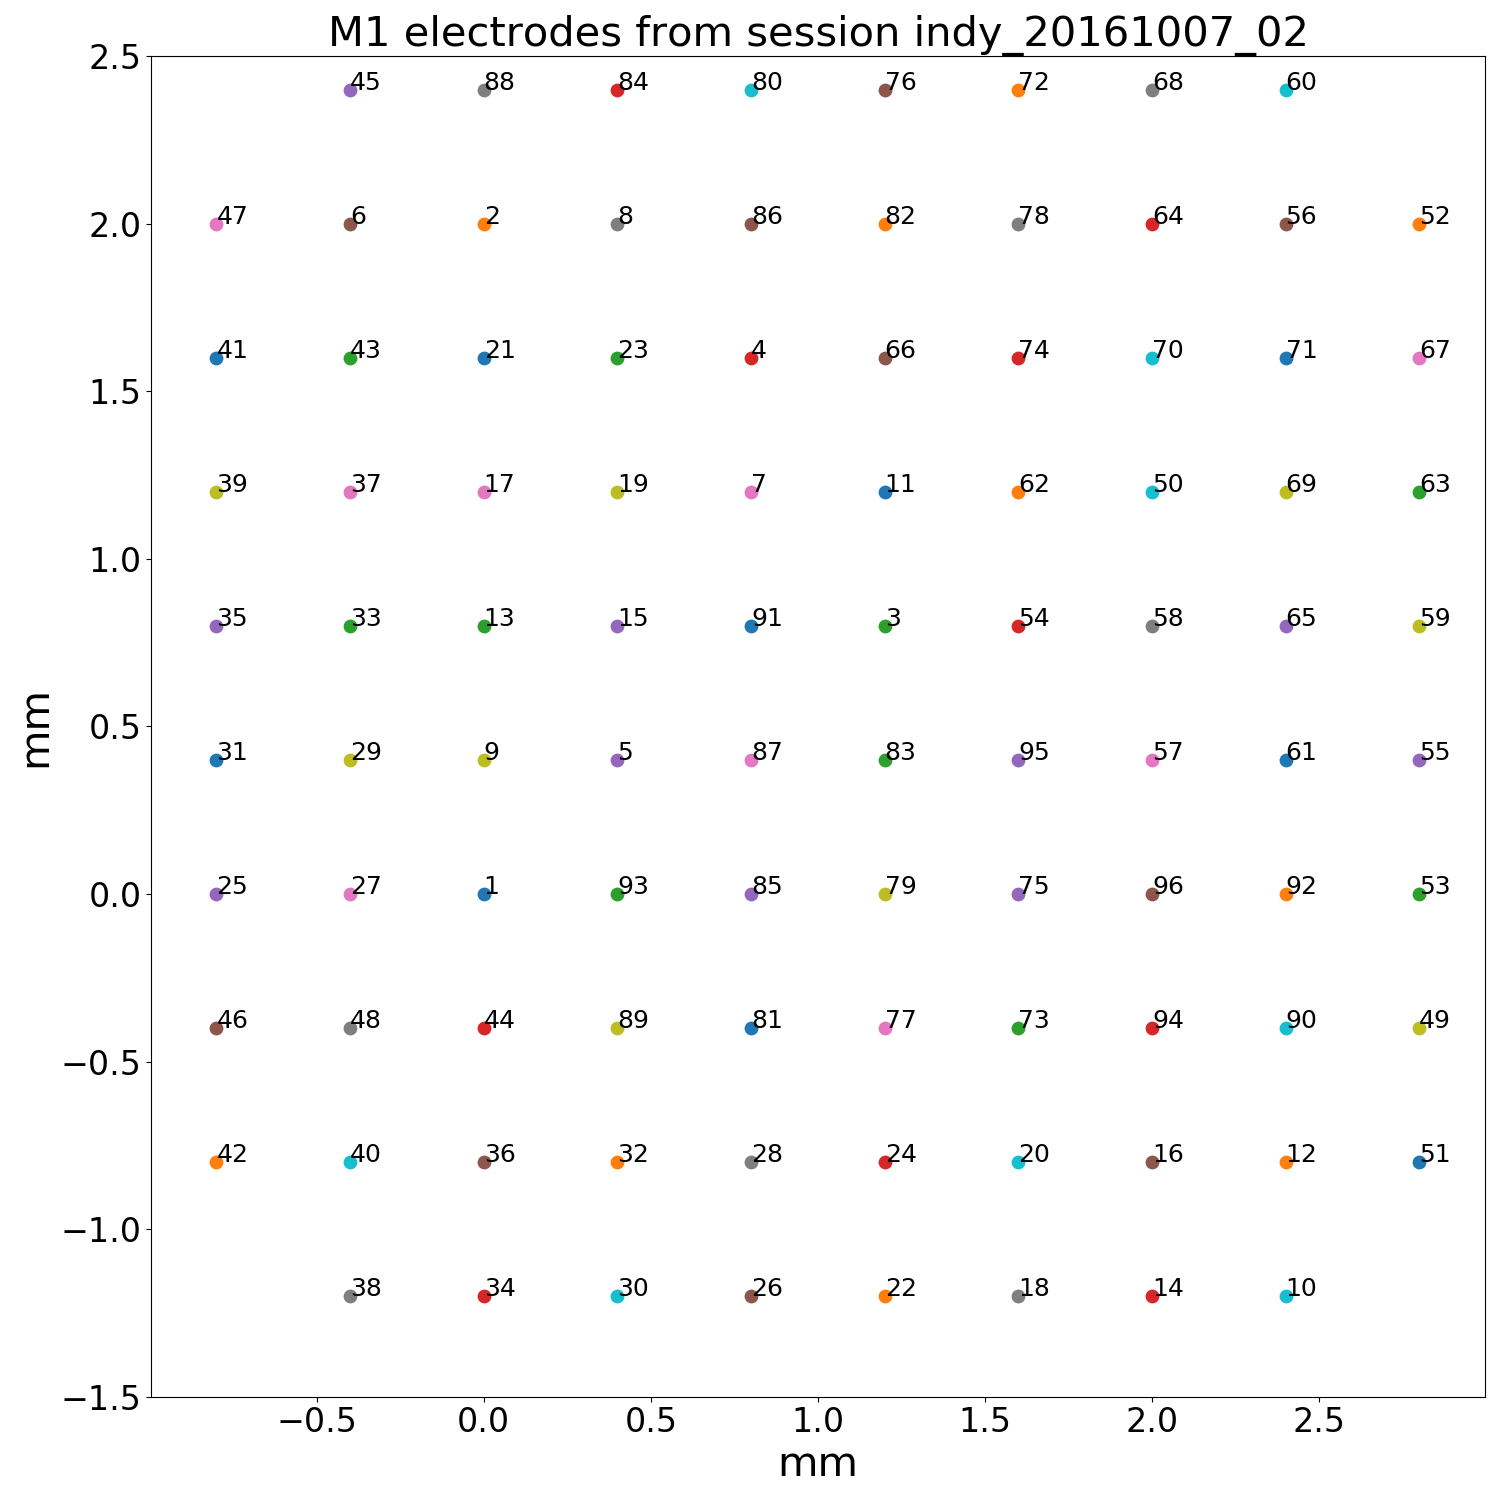
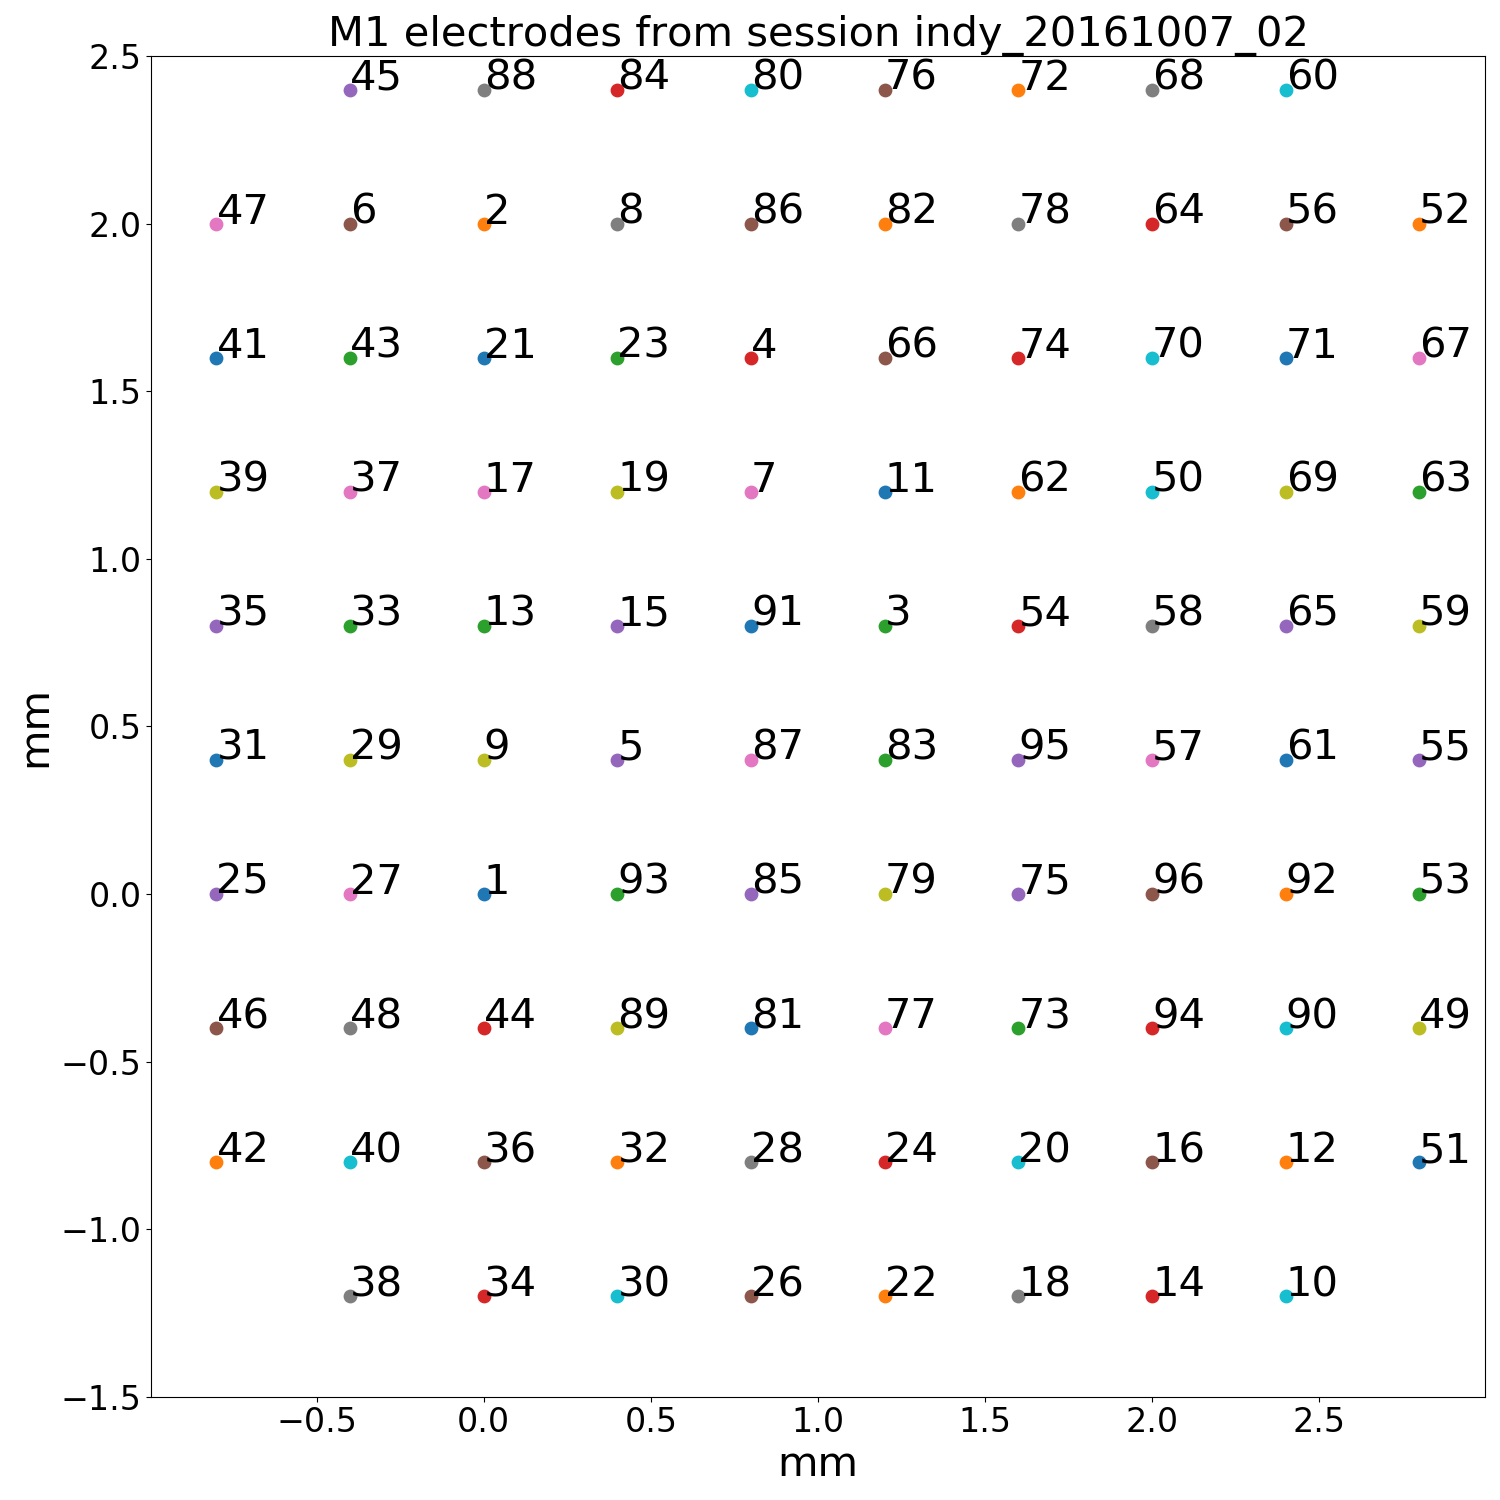
thesis

diff --git a/Thesis_Wu/Introduction.tex b/Thesis_Wu/Introduction.tex
@@ -97,9 +97,25 @@ Table \ref{tab:LFP_research} lists several researches regarding the LFPs, and th
 \section{Recurrent Neural Networks}
 \label{sec:rnn}
 The first idea of recurrent neural networks (RNN), which is called the Hopfield networks, was introduced in 1980s \citep{hopfield1982neural}, 
-and the following different versions of RNN have been developed afterwards \citep{elman1990finding, jordan1997serial}. 
+and the following different versions of RNN have been developed afterwards \citep{elman1990finding, jordan1997serial}, as showed in Figure~\ref{fig:elman_and_jordan}. 
 But the these RNN models face the same gradient vanishing problem, and the two effective approaches to solve this problem is either clip and scale the gradient if the norm is too large, 
 or create a better RNN model \citep{alom2018history}. 
+
+ % https://developer.ibm.com/articles/cc-cognitive-recurrent-neural-networks/
+\begin{figure}[H]
+    \begin{center}
+        \begin{subfigure}{0.4\textwidth}
+            \includegraphics[width=1\textwidth]{elman_network.png}
+            \caption{Elman network}
+        \end{subfigure}
+        \begin{subfigure}{0.4\textwidth}
+            \includegraphics[width=1\textwidth]{jordan_network.png}
+            \caption{Jordan network}
+        \end{subfigure}
+        \caption{}
+        \label{fig:elman_and_jordan}
+    \end{center}
+\end{figure}
 
 Therefore, \cite{hochreiter1997long} created a well-known model named Long Short-Term Memory (LSTM), solved the gradient vanishing problem of the original RNNs. LSTM quipped with three gates to learn how to forget or keep the memory from previous states. 
 Followed by the work of \cite{chung2014empirical}, a new model named Gated Recurrent Unit (GRU) which is similar to LSTM, was introduced. 
@@ -110,9 +126,12 @@ These preceding works manifest the uprising potentials of RNNs in computational 
 
 \section{Attention Mechanism}
 \label{sec:atten}
-Ever since \cite{sutskever2014sequence} implemented the encoder-decoder machanism to machine translation realm, 
-this structure has gained enormous popularity.
-Encoder-decoder RNN illustrated in Figure~\ref{fig:rnn_encoder_decoder},
+\cite{sutskever2014sequence} is the first research which implemented the encoder-decoder machanism (or called sequence to sequence, seq2seq) to machine translation realm.
+This structure has gained popularity also in sentiment analysis ever since.
+The structure of encoder-decoder RNN illustrated in Figure~\ref{fig:rnn_encoder_decoder}, 
+where the encoder turns a source sequence into a contex vector, then the decoder will use contex vector as the first hidden state to start translation.
+In the traning phase, decoder will be provided the actual target sequence wheras in testing phase, 
+the output from previous timestep will be the input of current timestep.
 
 \begin{figure}[H]
     \begin{center}
@@ -133,17 +152,12 @@ such that model is capable of focusing on the information relevant part of the i
 and leave a major positive impact on the ability of the neural machine translation system. 
 Furthermore, by pointing out the parts where the model cosider informative allows humans to have more insights into the decision factors inside deep learning, since deep learning methods have been criticized as black box oracles for a long time \citep{brown2018recurrent, hudson2018compositional}. 
 
-Apart form alignment model, \textit{self-attention} works quiet differently.
+Apart form alignment model, \textit{self-attention} of \textit{intra-attention} works quiet differently.
 The alighment model calculate the relationship between source and target sequences, 
 while self-attention only consider relationship beteen the elements from the same input sequence.
+It was \cite{cheng2016long} which first proposed the \textit{intra-attention} mechanism, and followed by the work of \cite{parikh2016decomposable,paulus2017deep}.
+Then \cite{vaswani2017attention} adapted similar idea but discarded the RNN architecture, making its \textit{Transformer} model has the advantage of parallelization.
 
-Similar attention techniques can be seen in sentiment classification research \citep{wang2016attention}, 
-where they appended the attention mechanism right after the LSTM outputs and named it attention-based LSTM.
-They also visualized the aspect in each sentence, e.g., the term "service" or "food" by showing the weights in attention vectors.
-They can tell the important words from the whole sentence.
-In EEG signal processing, \cite{zhang2019convolutional} used both CNN and RNN to extract the spatio and temporal dynamics.
-The self-attention module was placed in the last layer, after the raw signal was first processed by CNN and then RNN.
-The proposed method, convolutional recurrent attention model outperformed other state-of-the-art methods in EEG classification tasks.
 
 \begin{longtable}{cccc}
     \caption{Development of sequence attention}\\
@@ -152,15 +166,25 @@ The proposed method, convolutional recurrent attention model outperformed other 
     \multicolumn{1}{c}{}                                    & \multicolumn{1}{c}{}                                              & \multicolumn{1}{c}{  \multirow{1}{*}{\textbf{Model}}}      & \multicolumn{1}{c}{}                                       \\
     \hline
     \endhead
-    \cite{bahdanau2014neural} & \makecell{Alignment\\Model} & \makecell{Encoder-decoder\\(Seq2Seq)} & Machine Translation \\ \\
+    \cite{bahdanau2014neural} & \makecell{Alignment\\Model} & \makecell{Encoder-decoder\\(Seq2Seq)} & Machine translation \\ \\
     \cite{xu2015show} & \makecell{Soft/Hard\\Attention} & RNN & Image Caption \\ \\
-    \cite{luong2015effective} & \makecell{Global/Local\\ Attention} &  \makecell{Encoder-decoder\\(Seq2Seq)} & Machine Translation \\ \\
-    \cite{cheng2016long} & Intra-attention & \makecell{Encoder-decoder\\(Seq2Seq)} & Setiment Analysis \\ \\
+    \cite{luong2015effective} & \makecell{Global/Local\\ Attention} &  \makecell{Encoder-decoder\\(Seq2Seq)} & Machine translation \\ \\
+    \cite{cheng2016long} & Intra-attention & \makecell{Encoder-decoder\\(Seq2Seq)} & Setiment analysis \\ \\
+    \cite{parikh2016decomposable} & \makecell{Intra-sentence\\attention} & \makecell{Encoder-decoder\\(Seq2Seq)} & Setiment analysis \\ \\
+    \cite{paulus2017deep} & Intra-attention & \makecell{Encoder-decoder\\(Seq2Seq)} & Text summarization \\ \\
     \cite{vaswani2017attention} & \makecell{Self-attention,\\Parallelization,\\remove RNN} & \makecell{Encoder-decoder\\(The Transformer)} & Machine Translation \\ \\
-    \cite{lin2017structured} & \makecell{Self-attention} & RNN & Setiment Analysis \\ \\
+    \cite{lin2017structured} & \makecell{Self-attention} & RNN & Setiment analysis \\ \\
     \hline
     \label{tab:atten_dev}
 \end{longtable}
+
+Similar attention techniques can be seen in sentiment classification research \citep{wang2016attention}, 
+where they appended the attention mechanism right after the LSTM outputs and named it attention-based LSTM.
+They also visualized the aspect in each sentence, e.g., the term "service" or "food" by showing the weights in attention vectors.
+They can tell the important words from the whole sentence.
+In EEG signal processing, \cite{zhang2019convolutional} used both CNN and RNN to extract the spatio and temporal dynamics.
+The self-attention module was placed in the last layer, after the raw signal was first processed by CNN and then RNN.
+The proposed method, convolutional recurrent attention model outperformed other state-of-the-art methods in EEG classification tasks.
 
 
 \section{Normalization}

diff --git a/Thesis_Wu/Materials_and_Methods.tex b/Thesis_Wu/Materials_and_Methods.tex
@@ -95,7 +95,7 @@ where the solid lines indicate the actual tragectory of the fingertip and the da
 
 They used a mirror to reflect visual input from a projector so that visual cues appeared in the plane of the reaching hand.
 An opaque barrier lied between the eyes of the monkeys and their finger tips, so that the monkeys were not able to see their hands directly during experiments.
-The experimental environment is showed in Figure \ref{fig:monkey_exp_2}.
+The experimental environment is showed in Figure \ref{fig:monkey_experiment}.
 Fingertip position was recorded simultaneously with a six-axis electromagnetic position sensors, with a 250Hz sampling rate.
 The fingertip velocity and acceleration were then computed afterwards by discrete derivative, which is simply the differeces divided by the sampling period.
 
@@ -117,10 +117,9 @@ The fingertip velocity and acceleration were then computed afterwards by discret
 
 \begin{figure}[H]
     \begin{center}
-        \includegraphics[width=0.48\textwidth]{monkey2.jpg}
+        \includegraphics[width=1\textwidth]{monkey_experiment.png}
         \caption{Experiment Environment}
-        \fontsize{10}{12}
-        \label{fig:monkey_exp_2}
+        \label{fig:monkey_experiment}
     \end{center}
 \end{figure}
 
@@ -341,13 +340,15 @@ It is the internal dynamics of the GRU to determine the degree of forget and kee
 
 \subsection{Layer Normalization}
 \label{sec:layer_norm}
+% https://towardsdatascience.com/understanding-dataset-shift-f2a5a262a766
 With the novel normalization method proposed by \cite{ba2016layer}, \textit{layer normalization} is designed to overcome the setbacks of batch normalization, 
 when it is implemented in RNNs.
-The covariate shift problem can be reduced by fixing the mean and the variance of the summed inputs with each layer.
+Internal covariate shift is a problem caused by the variant distribution of the output of a previous layer,
+which are used to be the input of its following layer.
+It can be mitigated by fixing the mean and the variance of the summed inputs within each layer.
 By the means of normalization it can also provent the gradient vanishing problem from happening, which was brought up in Section~\ref{sec:RNN}.
 
-Computing the hidden units in the same layer:
-
+Here is the computation of mean and variance from all the hidden units in the same layer:
 \begin{align}
     \begin{split}
         \label{eq:normalization_term}

diff --git a/Python_code/Read_mat_file_and_Plot/plot_electorde_map.py b/Python_code/Read_mat_file_and_Plot/plot_electorde_map.py
@@ -46,7 +46,7 @@ ax = plt.subplot(111)
 for i in range(96):
     plt.title('M1 electrodes from session '+session_name, fontsize=my_fontsize)
     plt.scatter( m1[i][0], m1[i][1] , s=80)
-    plt.annotate( str( int( m1[i][2] ) ), xy=(m1[i][0], m1[i][1]) , fontsize=my_fontsize*0.6)
+    plt.annotate( str( int( m1[i][2] ) ), xy=(m1[i][0], m1[i][1]) , fontsize=my_fontsize)
     plt.ylim([-1.5,-1.5+4])
     plt.xlabel('mm', fontsize=my_fontsize)
     plt.xticks( fontsize=my_fontsize*0.8)
